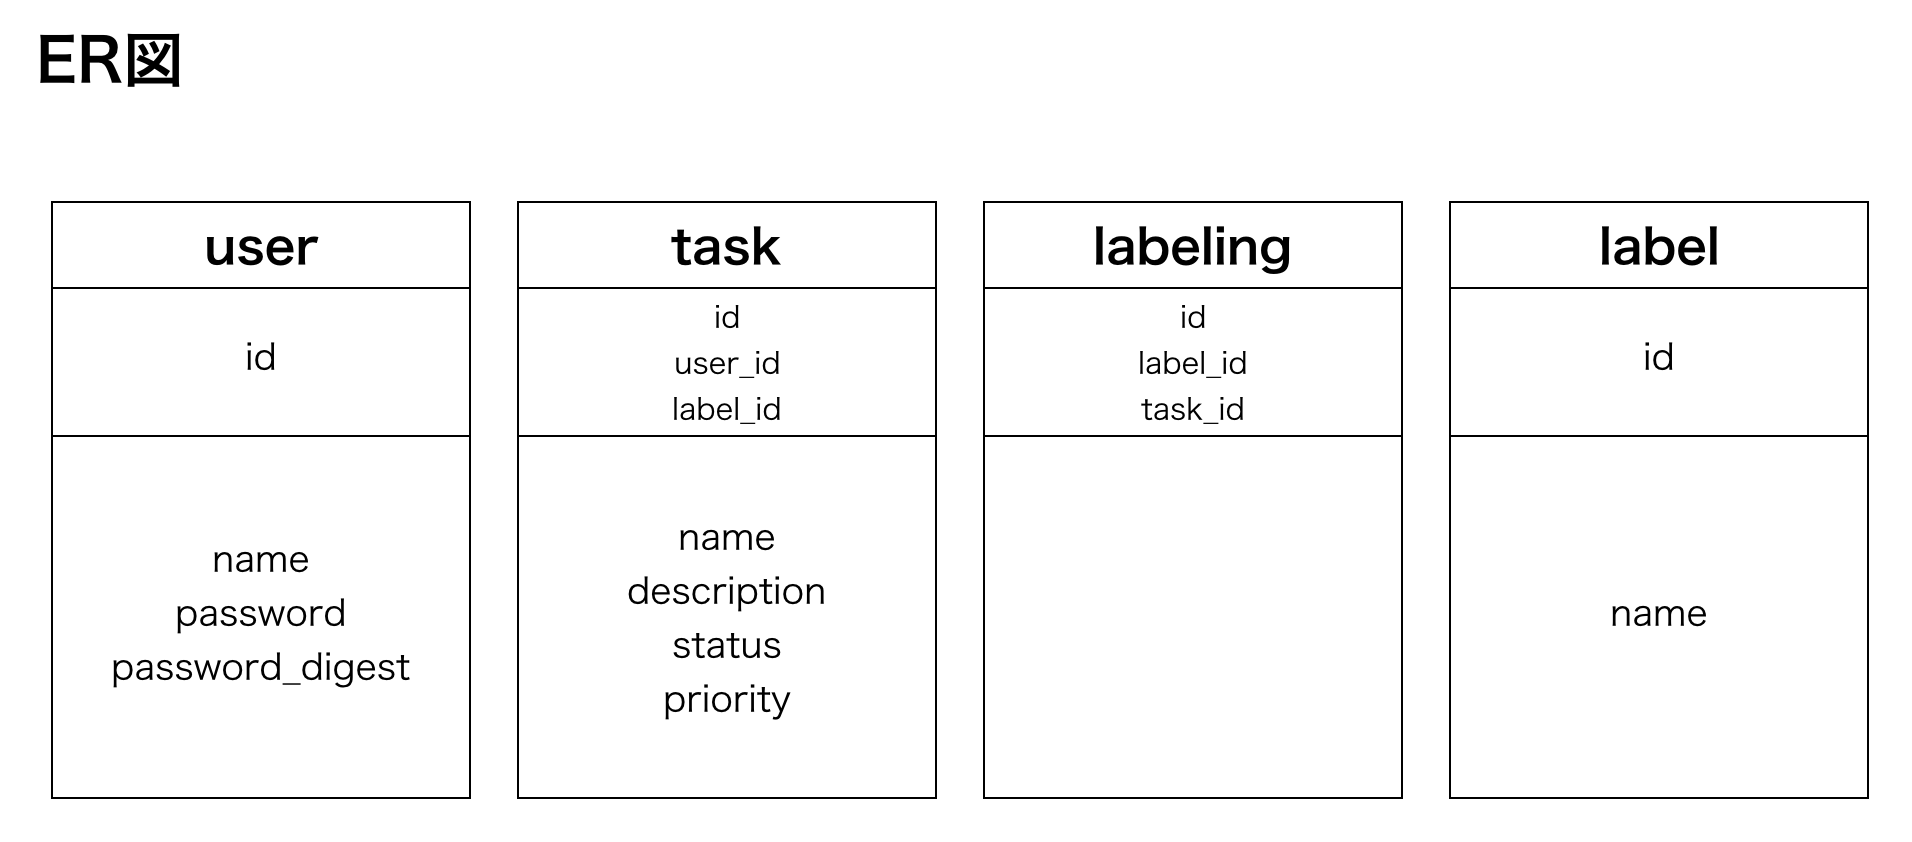
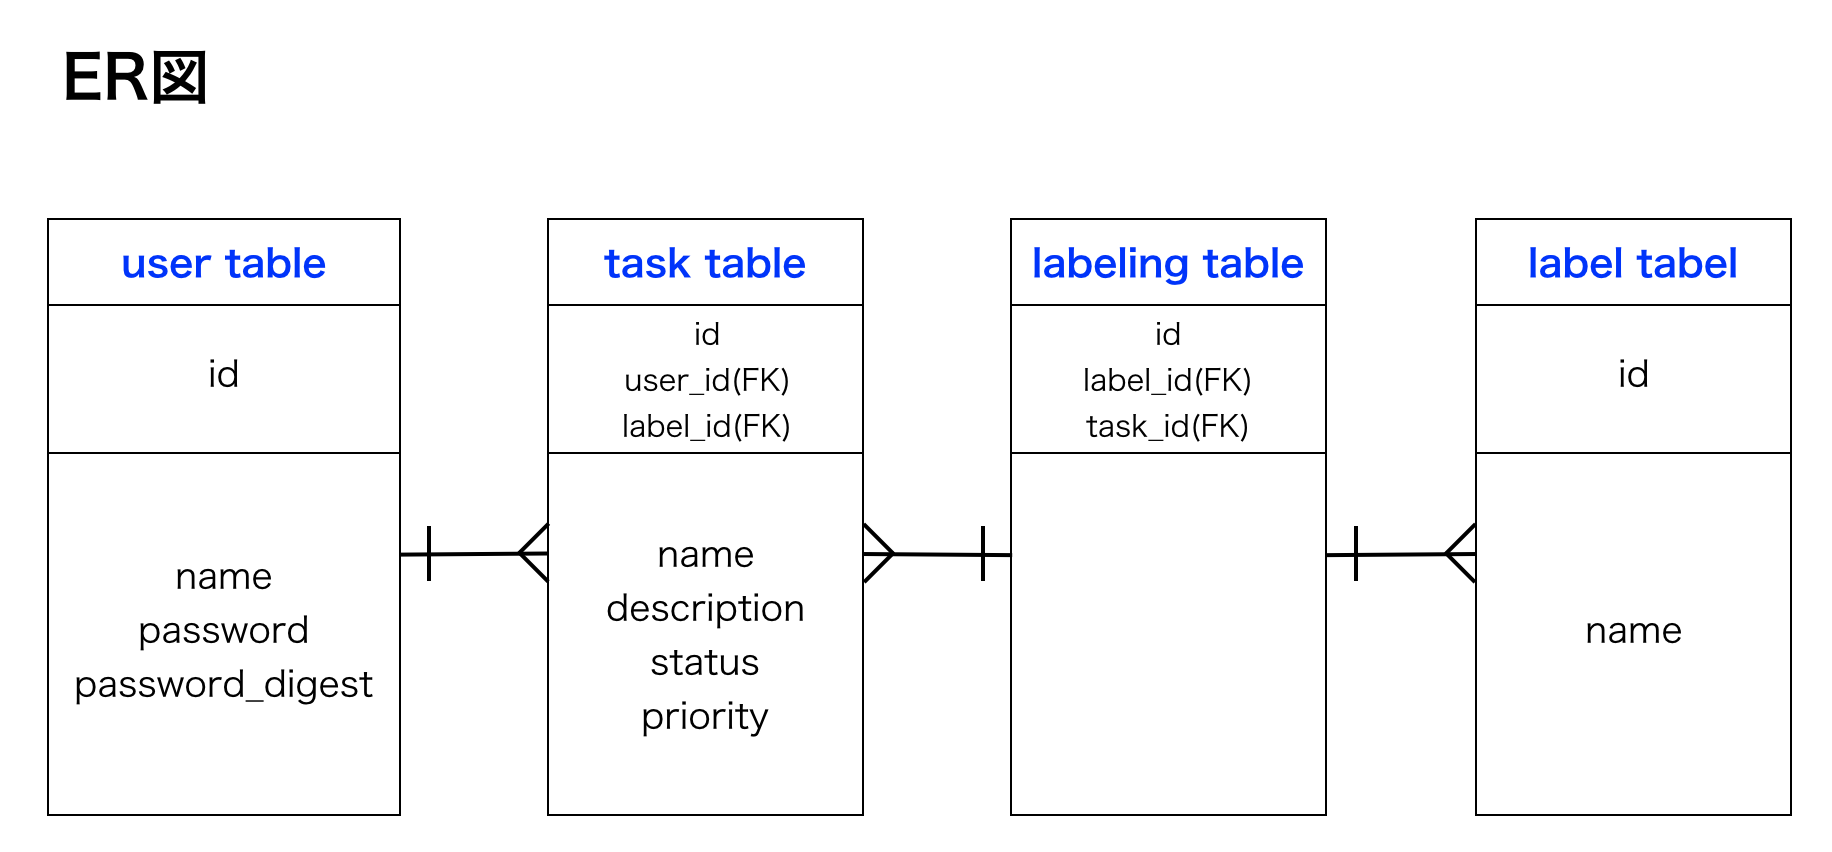
READMEとER図修正

diff --git a/README.md b/README.md
@@ -1,6 +1,33 @@
 # README
 
-### Tasks
+### tasks
 
+ - id : integer
  - name : string
  - description : string 
+ - status : integer
+ - priority : integre
+ - user_id : integer
+ - label_id : integer
+
+
+ ### users
+
+ - id : integer
+ - name : string
+ - password : string
+ - password_digest : string
+
+
+ ### labelings
+
+ - id : integer
+ - task_id : integer
+ - label_id : integer
+
+ ### labels
+
+ - id : integer
+ - name : string
+
+
